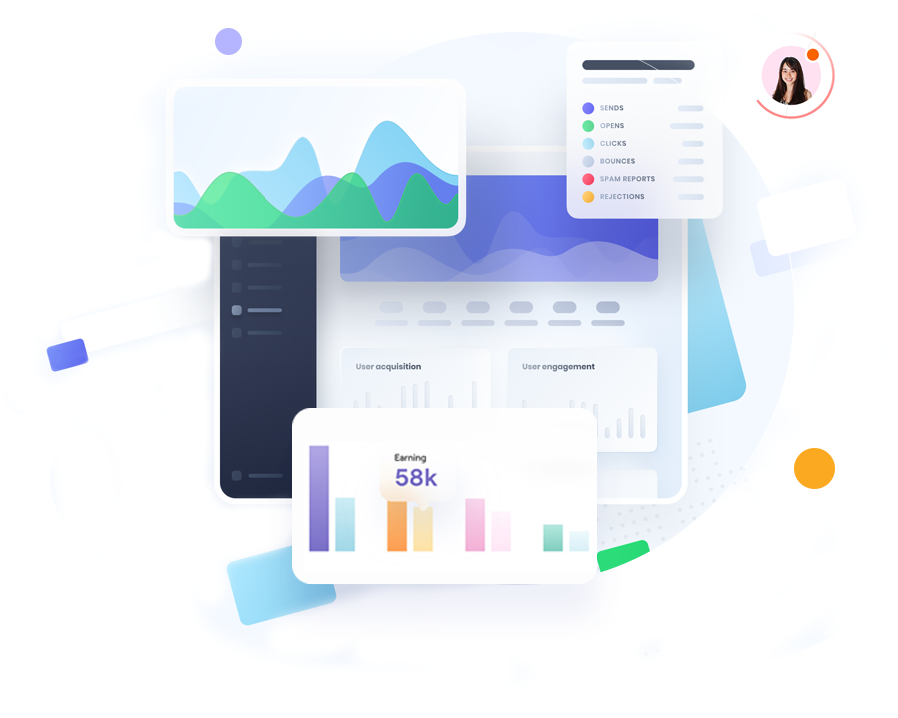
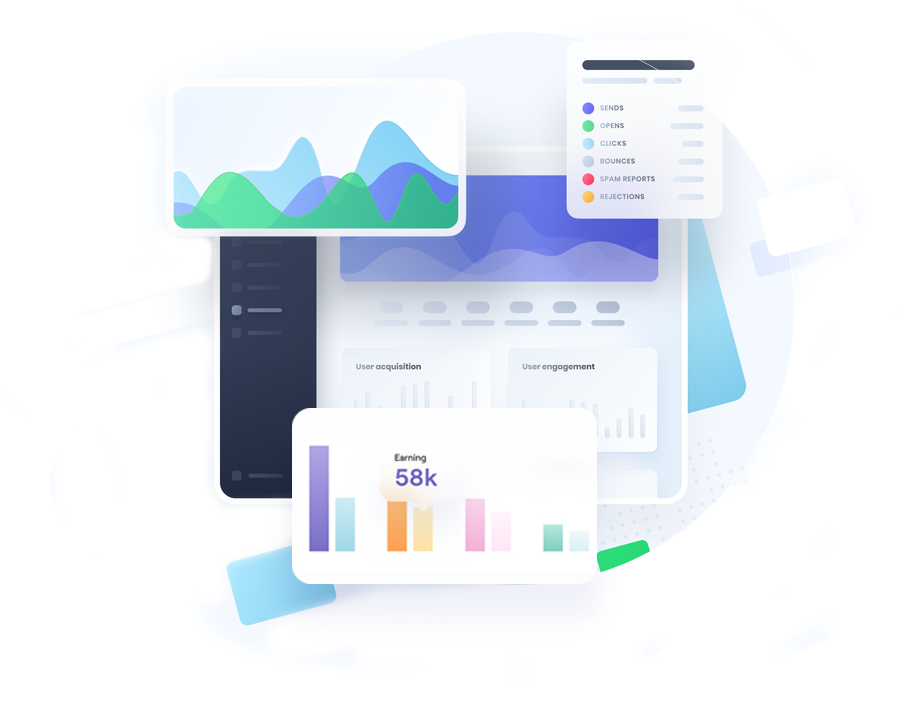
DasdaS

diff --git a/index.html b/index.html
@@ -29,7 +29,7 @@
                         </div>
                     </div>
                     <div class="col-lg-8 col-md-8">
-                        <div class="header-right">
+                        <div class="header-top-right">
                             <nav class="main-menu">
                                 <ul>
                                     <li><a class="active" href="#">Home</a></li>
@@ -50,15 +50,17 @@
             <div class="header-bottom">
                 <div class="container">
                     <div class="row v-middle">
-                        <div class="col-lg-6 col-md-6">
-                            <h1> <span class="stoke">Focus</span> <span class="green">on the Right</span> Project For Your <span class="stoke">Business</span> </h1>
-                            <p>Lorem ipsum dolor sit amet, consectetur adipiscing elit, sed do eiusmod tempor incididunt ut labore.</p>
-                            <form action="">
-                                <input type="email" placeholder="Enter your email address">
-                                <input class="common-btn" type="submit" value="Get in Touch">
-                            </form>
+                        <div class="col-lg-6 col-md-12">
+                            <div class="header-bottom-left">
+                                <h1> <span class="stoke">Focus</span> <span class="green">on the Right</span> Project For Your <span class="stoke">Business</span> </h1>
+                                <p>Lorem ipsum dolor sit amet, consectetur adipiscing elit, sed do eiusmod tempor incididunt ut labore.</p>
+                                <form action="">
+                                    <input type="email" placeholder="Enter your email address">
+                                    <input class="common-btn" type="submit" value="Get in Touch">
+                                </form>
+                            </div>
                         </div>
-                        <div class="col-lg-6 col-md-6">
+                        <div class="col-lg-6">
                             <img src="assets/images/hero-image.png" alt="hero-image" class="item-bounce">
                         </div>
                     </div>

diff --git a/assets/css/style.css b/assets/css/style.css
@@ -74,11 +74,6 @@ button {
     cursor: pointer;
 }
 
-img {
-    width: 100%;
-    height: auto;
-    display: block; 
-}
 .stoke{
     -webkit-text-fill-color: transparent;
     -webkit-text-stroke-width: 3px;
@@ -100,10 +95,12 @@ img {
     background-image: url(../images/header-bg.png);
     background-repeat: no-repeat;
     background-size: cover;
+    width: 100%;
+    height: 100vh;
 }
 
 .header-area .header-top{
-    margin-bottom: 50px;
+    margin-bottom: 10px;
 }
 .header-area .header-top .logo img{
     width: auto;
@@ -124,44 +121,48 @@ img {
     color: #151e3c;
 }
 
-.header-area .header-top .header-right{
+.header-area .header-top .header-top-right{
     display: flex;
     align-items: center;
 }
-.header-area .header-top .header-right .header-right-button{
+.header-area .header-top .header-top-right .header-right-button{
     margin-left: 85px;
 }
-.header-area .header-bottom h1{
+.header-area .header-bottom .header-bottom-left h1{
     font-size: 60px;
     font-weight: bold;
     color: #2e374f;
     margin-bottom: 40px;
 }
-.header-area .header-bottom p{
+.header-area .header-bottom .header-bottom-left p{
     font-size: 16px;
     color: #2b2e35;
     margin-bottom: 40px;
 }
-.header-area .header-bottom img{
-    width: auto;
 
-}
-.header-area .header-bottom form {
+.header-area .header-bottom .header-bottom-left form {
     position: relative;
 }
-.header-area .header-bottom form input[type=email]{
+.header-area .header-bottom .header-bottom-left form input[type=email]{
     padding: 25px;
     color: #91949a;
     font-size: 14px;
     border: 1px solid #e5e5e7;
-    min-width: 550px;
+    width: 100%;
     border-radius: 5px;
 }
-.header-area .header-bottom form input[type=submit]{
+.header-area .header-bottom .header-bottom-left form input[type=submit]{
     position: absolute;
-    right: 10px;
-    top: 10px;
+    right: 3%;
+    top: 12%;
 }
+
+.header-area .header-bottom img{
+    min-width: 700px;
+}
+/* .header-area .header-bottom .header-bottom-right .shape-images img{
+    width: auto;
+} */
 
 
 

diff --git a/assets/css/responsive.css b/assets/css/responsive.css
@@ -1,7 +1,9 @@
 /* Normal desktop :1200px. */
 @media (min-width: 1200px) and (max-width: 1500px) {
 
-
+    .header-area .header-bottom img {
+        min-width: 585px;
+    }
 
 }
 
@@ -13,6 +15,11 @@
         display: none;
     }
 
+    .header-area .header-bottom img {
+        min-width: 484px;
+    }
+    
+
 }
 
  
@@ -21,6 +28,11 @@
 
     .header-top{
         display: none;
+    }
+
+    .header-area .header-bottom img {
+        display: none;
+        visibility: hidden;
     }
 
 }
@@ -32,11 +44,20 @@
     .header-top{
         display: none;
     }
+    .header-area .header-bottom img {
+        display: none;
+        visibility: hidden;
+    }    
  
 }
  
 /* Large Mobile :480px. */
 @media only screen and (min-width: 480px) and (max-width: 767px) {
-.container {width:450px}
- 
+
+    .container {width:450px}
+
+    .header-area .header-bottom img {
+        display: none;
+        visibility: hidden;
+    } 
 }
